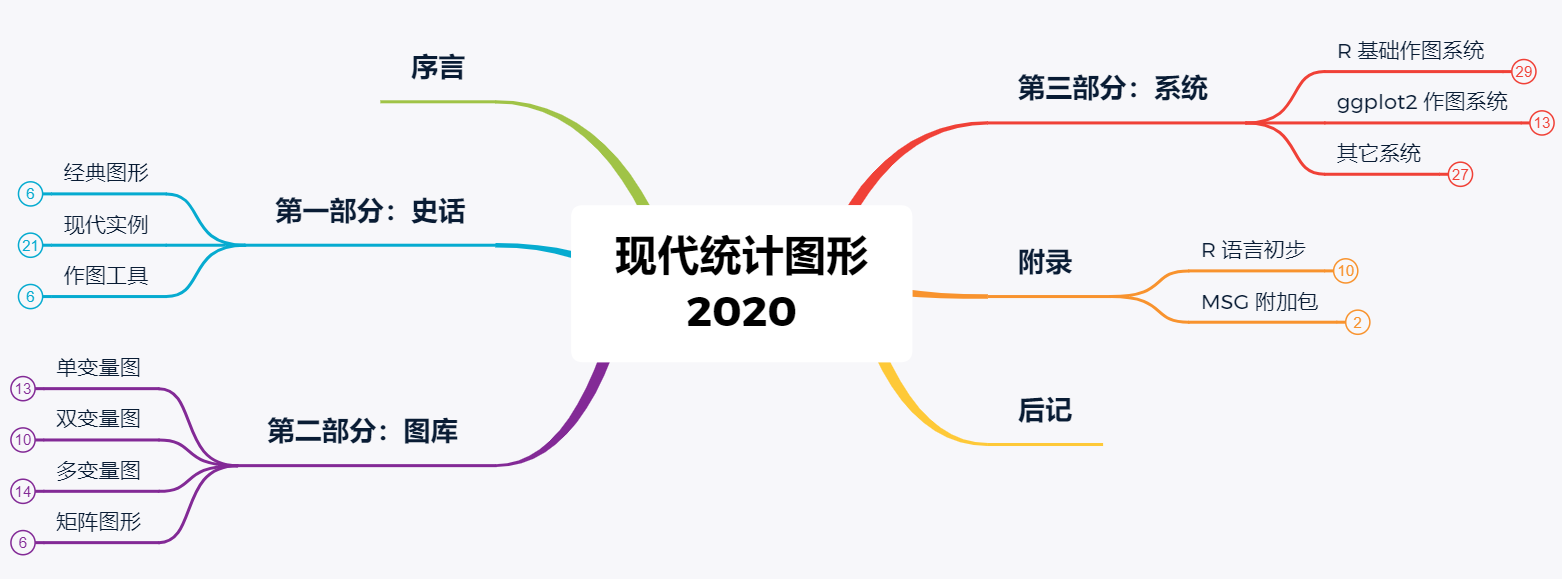
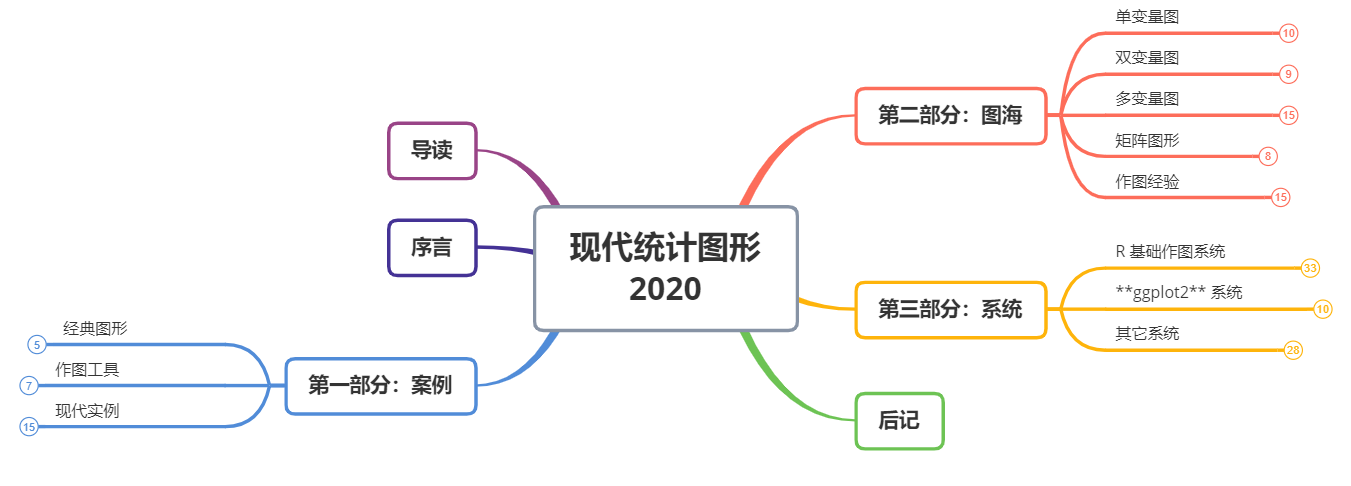
new

diff --git a/docs/new.html b/docs/new.html
@@ -461,6 +461,7 @@ mark .md-meta { color: rgb(0, 0, 0); opacity: 0.3 !important; }
 </style>
 </head>
 <body class='typora-export os-windows' >
-<div  id='write'  class = ''><p>&nbsp;</p><h1><a name="现代统计图形2020-版）" class="md-header-anchor"></a><span>《现代统计图形（2020 版）》</span></h1><div class='md-toc' mdtype='toc'><p class="md-toc-content" role="list"><span role="listitem" class="md-toc-item md-toc-h1" data-ref="n31"><a class="md-toc-inner" href="#现代统计图形2020-版）">《现代统计图形（2020 版）》</a></span><span role="listitem" class="md-toc-item md-toc-h2" data-ref="n14"><a class="md-toc-inner" href="#本书亮点">本书亮点</a></span><span role="listitem" class="md-toc-item md-toc-h2" data-ref="n25"><a class="md-toc-inner" href="#征集相关言论书评">征集相关言论/书评</a></span></p></div><p><span>这是《现代统计图形》2020 版的官方主页。</span></p><p><span>经过一周猛如虎的操作，众人期盼多年的《现代统计图形》一书，今年出版信心满满。</span></p><p><span>为了跟流传已久的前 80 回的 pdf 版（庚寅本）以及去年搬迁得到的网页版（己亥本）区分，我们姑且称这一版为“现代统计图形（庚子本）”，简称 msg2020。</span></p><ul><li><p><span>宣传主页：</span><a href='https://msg2020.pzhao.org' target='_blank' class='url'>https://msg2020.pzhao.org</a></p></li><li><p><a href='https://github.com/XiangyunHuang/MSG-Book/tree/edition1'><span>项目源码</span></a><span>，</span><a href='https://github.com/XiangyunHuang/MSG-Book/issues/88'><span>修订方案和进度</span></a><span>，</span><a href='https://d.cosx.org/d/420857'><span>前传</span></a><span>。</span></p></li><li><p><span>Github 用户可以来本书宣传主页的 </span><a href='https://github.com/pzhaonet/msg2020/issues'><span>issues</span></a><span> 来发言。其他用户可以在</span><a href='https://d.cosx.org/d/421648'><span>统计之都论坛</span></a><span>后面留言。</span></p><p><img src="image/msg2020-qr.png" style="zoom: 50%;" /></p></li></ul><h2><a name="本书亮点" class="md-header-anchor"></a><span>本书亮点</span></h2><p><span>与庚寅本相比，本次的庚子本有重大变化，包括但不限于：</span></p><ul><li><span>篇章结构全部重新调整，以全新的逻辑框架面世。只要按推荐的顺序阅读，本书将有三种读法，分别面向不同需求的读者。</span></li><li><span>在保持益辉原文风格的前提下，遣词造句、段落格式、乃至标点符号都经过《</span><a href='https://xuer.pzhao.org'><span>学 R</span></a><span>》一书的作者（也就是我）精心打磨，更清晰流畅，易读易懂。</span></li><li><span>除了新增一些图形之外，原书插图只要能改，就全部改为 ggplot 图形，并附有基础作图和 ggplot2 作图的两种源代码，含详细中文注释，并且全部经过最新版的 R 4.0.2 测试。</span></li></ul><p><span>其他可以吹牛的地方容我再考虑考虑。独吹乐，与民吹乐，孰乐？欢迎大家一起吹。</span></p><p><a href='https://msg2020.pzhao.org/image/msg2020-outline.png'><img src="https://msg2020.pzhao.org/image/msg2020-outline.png" referrerpolicy="no-referrer"></a></p><h2><a name="征集相关言论书评" class="md-header-anchor"></a><span>征集相关言论/书评</span></h2><p><span>我们正在搜集群豪对此书的评价，欢迎大家帮忙，找到了贴在上面说的留言处就行，请注明作者、言论和出处，如：</span></p><blockquote><p><span>再不出，哥就毕业了。(</span><a href='https://d.cosx.org/d/106696-106696/11'><span>sunjianshinidaye</span></a><span>)</span></p></blockquote><p><span>精彩言论有望收录到书里哦。</span></p><p><span>2020 年，注定不凡。</span></p></div>
+<div  id='write'  class = ''><h1><a name="msg2020-版有哪些新内容" class="md-header-anchor"></a><span>msg2020 版有哪些新内容</span></h1><hr /><div class='md-toc' mdtype='toc'><p class="md-toc-content" role="list"><span role="listitem" class="md-toc-item md-toc-h1" data-ref="n2"><a class="md-toc-inner" href="#msg2020-版有哪些新内容">msg2020 版有哪些新内容</a></span><span role="listitem" class="md-toc-item md-toc-h2" data-ref="n5"><a class="md-toc-inner" href="#结构变动">结构变动</a></span><span role="listitem" class="md-toc-item md-toc-h3" data-ref="n6"><a class="md-toc-inner" href="#章节结构改动">章节结构改动</a></span><span role="listitem" class="md-toc-item md-toc-h3" data-ref="n24"><a class="md-toc-inner" href="#小节内的改动">小节内的改动</a></span><span role="listitem" class="md-toc-item md-toc-h2" data-ref="n30"><a class="md-toc-inner" href="#内容增删">内容增删</a></span><span role="listitem" class="md-toc-item md-toc-h3" data-ref="n31"><a class="md-toc-inner" href="#新增小节">新增小节</a></span><span role="listitem" class="md-toc-item md-toc-h3" data-ref="n39"><a class="md-toc-inner" href="#更新与新增图片">更新与新增图片</a></span><span role="listitem" class="md-toc-item md-toc-h3" data-ref="n41"><a class="md-toc-inner" href="#新增数据表">新增数据表</a></span><span role="listitem" class="md-toc-item md-toc-h3" data-ref="n43"><a class="md-toc-inner" href="#删除小节">删除小节</a></span><span role="listitem" class="md-toc-item md-toc-h2" data-ref="n45"><a class="md-toc-inner" href="#文字与格式">文字与格式</a></span><span role="listitem" class="md-toc-item md-toc-h3" data-ref="n46"><a class="md-toc-inner" href="#代码格式">代码格式</a></span><span role="listitem" class="md-toc-item md-toc-h3" data-ref="n48"><a class="md-toc-inner" href="#个别文字">个别文字</a></span><span role="listitem" class="md-toc-item md-toc-h3" data-ref="n50"><a class="md-toc-inner" href="#段落格式">段落格式</a></span><span role="listitem" class="md-toc-item md-toc-h2" data-ref="n52"><a class="md-toc-inner" href="#新版更多详情">新版更多详情</a></span><span role="listitem" class="md-toc-item md-toc-h2" data-ref="n54"><a class="md-toc-inner" href="#新旧版对比举例">新旧版对比举例</a></span></p></div><h2><a name="结构变动" class="md-header-anchor"></a><span>结构变动</span></h2><h3><a name="章节结构改动" class="md-header-anchor"></a><span>章节结构改动</span></h3><p><span>旧版为 7 章+ 4 个附录 。</span></p><p><span>新版分为三部分，12 章，无附录。主要改动为：</span></p><ul><li><span>把实例（漂亮的图形）提前在第一部分，而在第二部分逐个介绍图形之后引入 R 代码，把具体的技术细节合并在第三部分。</span></li><li><span>把“数据案例”和“统计模拟”两节适当增删合并，提升为独立的一章“现代实例”。</span></li><li><span>把“图库”一章拆为四章。</span></li><li><span>把“元素”、“程序初步”、“细节技巧”三章适当增删合并，成为“R 基础作图系统”一章。</span></li><li><span>把 “ggplot2 图形”一节适当增删，提升为独立的一章。</span></li><li><span>“三足鼎立”和“背景地图”两节移至“图海”，改为“三元图”和“地图”。</span></li></ul><p><span>新版大纲：</span></p><p><a href='https://msg2020.pzhao.org/image/msg2020-outline.png'><img src="image/msg2020-outline.png" referrerpolicy="no-referrer"></a></p><h3><a name="小节内的改动" class="md-header-anchor"></a><span>小节内的改动</span></h3><ul><li><span>“现代实例”中每个例子都是先提出问题（案情回放），再亮出图形（探案过程），最后给出作图方法（探案工具）。</span></li><li><span>“图海”每种图形都是先介绍概念，再举出实例，最后给出代码。</span></li></ul><h2><a name="内容增删" class="md-header-anchor"></a><span>内容增删</span></h2><h3><a name="新增小节" class="md-header-anchor"></a><span>新增小节</span></h3><ul><li><span>“现代实例”一章新增“新冠疫情”、“论坛热度”；</span></li><li><span>“图海”新增“风玫瑰图”</span></li><li><span>&quot;作图工具&quot;新增“R 语言的使用”</span></li></ul><h3><a name="更新与新增图片" class="md-header-anchor"></a><span>更新与新增图片</span></h3><p><span>旧版 138 图，绝大多数插图替换为 </span><strong><span>ggplot</span></strong><span> 系统。新版增至 154 图。</span></p><h3><a name="新增数据表" class="md-header-anchor"></a><span>新增数据表</span></h3><p><span>旧版几乎没有表格，均以代码显示。新版增加数据表格 40 个，方便读者对数据有直观了解后再看图。</span></p><h3><a name="删除小节" class="md-header-anchor"></a><span>删除小节</span></h3><p><span>删除“程序初步”、“图形界面”、“本书 R 包”、“动态图形与交互式图形”四个小节。仅在相关章节简述。</span></p><h2><a name="文字与格式" class="md-header-anchor"></a><span>文字与格式</span></h2><h3><a name="代码格式" class="md-header-anchor"></a><span>代码格式</span></h3><p><span>旧版以 </span><code>usage()</code><span> 引出打印的单色代码。新版去掉了这个环节，直接亮代码。</span></p><h3><a name="个别文字" class="md-header-anchor"></a><span>个别文字</span></h3><p><span>详见书稿。</span></p><h3><a name="段落格式" class="md-header-anchor"></a><span>段落格式</span></h3><p><span>连续多个逗号的大段文字重新划分句子。函数参数介绍段落重新列表。</span></p><h2><a name="新版更多详情" class="md-header-anchor"></a><span>新版更多详情</span></h2><p><span>见</span><a href='https://github.com/XiangyunHuang/MSG-Book/issues/88'><span>修订方案和进度</span></a><span>。</span></p><h2><a name="新旧版对比举例" class="md-header-anchor"></a><span>新旧版对比举例</span></h2><blockquote><p><span>旧版：</span></p></blockquote><p><img src="image/msg2011-1.png" referrerpolicy="no-referrer"></p><blockquote><p><span>新版：</span></p></blockquote><p><img src="D:\Seafile\pz\github\msg2020\docs\image\msg2020-1.png" referrerpolicy="no-referrer"></p><hr /><blockquote><p><span>旧版：</span></p></blockquote><p><img src="image/msg2011-2.png" referrerpolicy="no-referrer"></p><blockquote><p><span>新版：</span></p></blockquote><p><img src="D:\Seafile\pz\github\msg2020\docs\image\msg2020-2.png" referrerpolicy="no-referrer"></p><hr /><blockquote><p><span>旧版：</span></p></blockquote><p><img src="image/msg2011-3.png" referrerpolicy="no-referrer"></p><blockquote><p><span>新版：</span></p></blockquote><p><img src="D:\Seafile\pz\github\msg2020\docs\image\msg2020-3.png" referrerpolicy="no-referrer"></p><hr /><blockquote><p><span>旧版：</span></p></blockquote><p><img src="image/msg2011-4.png" referrerpolicy="no-referrer"></p><blockquote><p><span>新版：</span></p></blockquote><p><img src="D:\Seafile\pz\github\msg2020\docs\image\msg2020-4.png" referrerpolicy="no-referrer"></p><hr /><blockquote><p><span>旧版：</span></p></blockquote><p><img src="image/msg2011-5.png" referrerpolicy="no-referrer"></p><blockquote><p><span>新版：</span></p></blockquote><p><img src="D:\Seafile\pz\github\msg2020\docs\image\msg2020-5.png" referrerpolicy="no-referrer"></p><hr /><blockquote><p><span>新版新增“新冠疫情”：</span></p></blockquote><p><img src="D:\Seafile\pz\github\msg2020\docs\image\msg2020-new1.png" referrerpolicy="no-referrer"></p><blockquote><p><span>新版新增“洛阳铲”：</span>
+<img src="D:\Seafile\pz\github\msg2020\docs\image\msg2020-new2.png" referrerpolicy="no-referrer"></p></blockquote></div>
 </body>
 </html>

diff --git a/docs/new.md b/docs/new.md
@@ -1,0 +1,130 @@
+---
+title: 《现代统计图形（2020 版）》
+---
+
+# msg2020 版有哪些新内容
+
+---
+
+[TOC]
+
+## 结构变动
+
+### 章节结构改动
+
+旧版为 7 章+ 4 个附录 。
+
+新版分为三部分，12 章，无附录。主要改动为：
+
+- 把实例（漂亮的图形）提前在第一部分，而在第二部分逐个介绍图形之后引入 R 代码，把具体的技术细节合并在第三部分。
+- 把“数据案例”和“统计模拟”两节适当增删合并，提升为独立的一章“现代实例”。
+- 把“图库”一章拆为四章。
+- 把“元素”、“程序初步”、“细节技巧”三章适当增删合并，成为“R 基础作图系统”一章。
+- 把 “ggplot2 图形”一节适当增删，提升为独立的一章。
+- “三足鼎立”和“背景地图”两节移至“图海”，改为“三元图”和“地图”。
+
+新版大纲：
+
+[![](image/msg2020-outline.png)](https://msg2020.pzhao.org/image/msg2020-outline.png)
+
+### 小节内的改动
+
+- “现代实例”中每个例子都是先提出问题（案情回放），再亮出图形（探案过程），最后给出作图方法（探案工具）。
+
+- “图海”每种图形都是先介绍概念，再举出实例，最后给出代码。
+
+## 内容增删
+
+### 新增小节
+
+- “现代实例”一章新增“新冠疫情”、“论坛热度”；
+- “图海”新增“风玫瑰图”
+- "作图工具"新增“R 语言的使用”
+
+### 更新与新增图片
+
+旧版 138 图，绝大多数插图替换为 **ggplot** 系统。新版增至 154 图。
+
+### 新增数据表
+
+旧版几乎没有表格，均以代码显示。新版增加数据表格 40 个，方便读者对数据有直观了解后再看图。
+
+### 删除小节
+
+删除“程序初步”、“图形界面”、“本书 R 包”、“动态图形与交互式图形”四个小节。仅在相关章节简述。
+
+## 文字与格式
+
+### 代码格式
+
+旧版以 `usage()` 引出打印的单色代码。新版去掉了这个环节，直接亮代码。
+
+### 个别文字
+
+详见书稿。
+
+### 段落格式
+
+连续多个逗号的大段文字重新划分句子。函数参数介绍段落重新列表。
+
+## 新版更多详情
+
+见[修订方案和进度](https://github.com/XiangyunHuang/MSG-Book/issues/88)。
+
+## 新旧版对比举例
+
+> 旧版：
+
+![](image/msg2011-1.png)
+
+> 新版：
+
+![](D:\Seafile\pz\github\msg2020\docs\image\msg2020-1.png)
+
+---
+
+> 旧版：
+
+![](image/msg2011-2.png)
+
+> 新版：
+
+![](D:\Seafile\pz\github\msg2020\docs\image\msg2020-2.png)
+
+---
+
+> 旧版：
+
+![](image/msg2011-3.png)
+
+> 新版：
+
+![](D:\Seafile\pz\github\msg2020\docs\image\msg2020-3.png)
+
+---
+
+> 旧版：
+
+![](image/msg2011-4.png)
+
+> 新版：
+
+![](D:\Seafile\pz\github\msg2020\docs\image\msg2020-4.png)
+
+---
+> 旧版：
+
+![](image/msg2011-5.png)
+
+> 新版：
+
+![](D:\Seafile\pz\github\msg2020\docs\image\msg2020-5.png)
+
+---
+
+> 新版新增“新冠疫情”：
+
+![](D:\Seafile\pz\github\msg2020\docs\image\msg2020-new1.png)
+
+> 新版新增“洛阳铲”：
+![](D:\Seafile\pz\github\msg2020\docs\image\msg2020-new2.png)

diff --git a/docs/index.md b/docs/index.md
@@ -1,3 +1,7 @@
+---
+title: 《现代统计图形（2020 版）》
+---
+
 # 《现代统计图形（2020 版）》
 
 [TOC]
